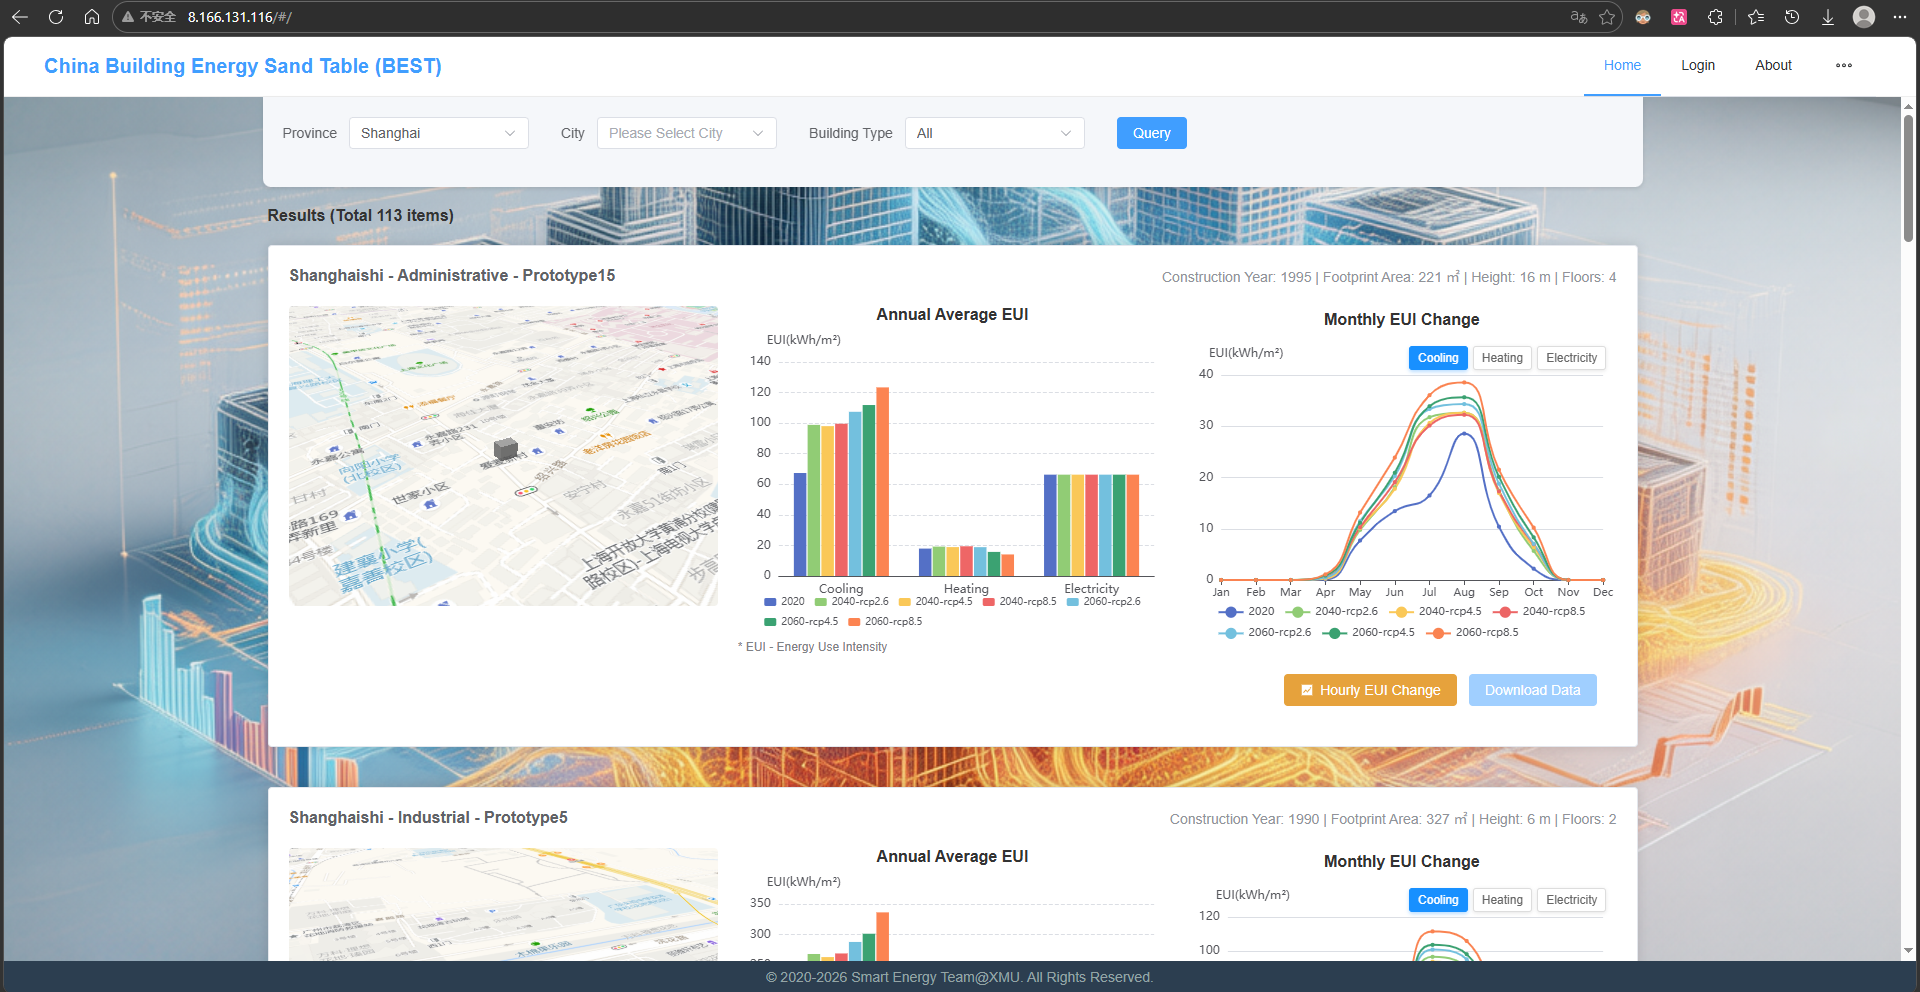
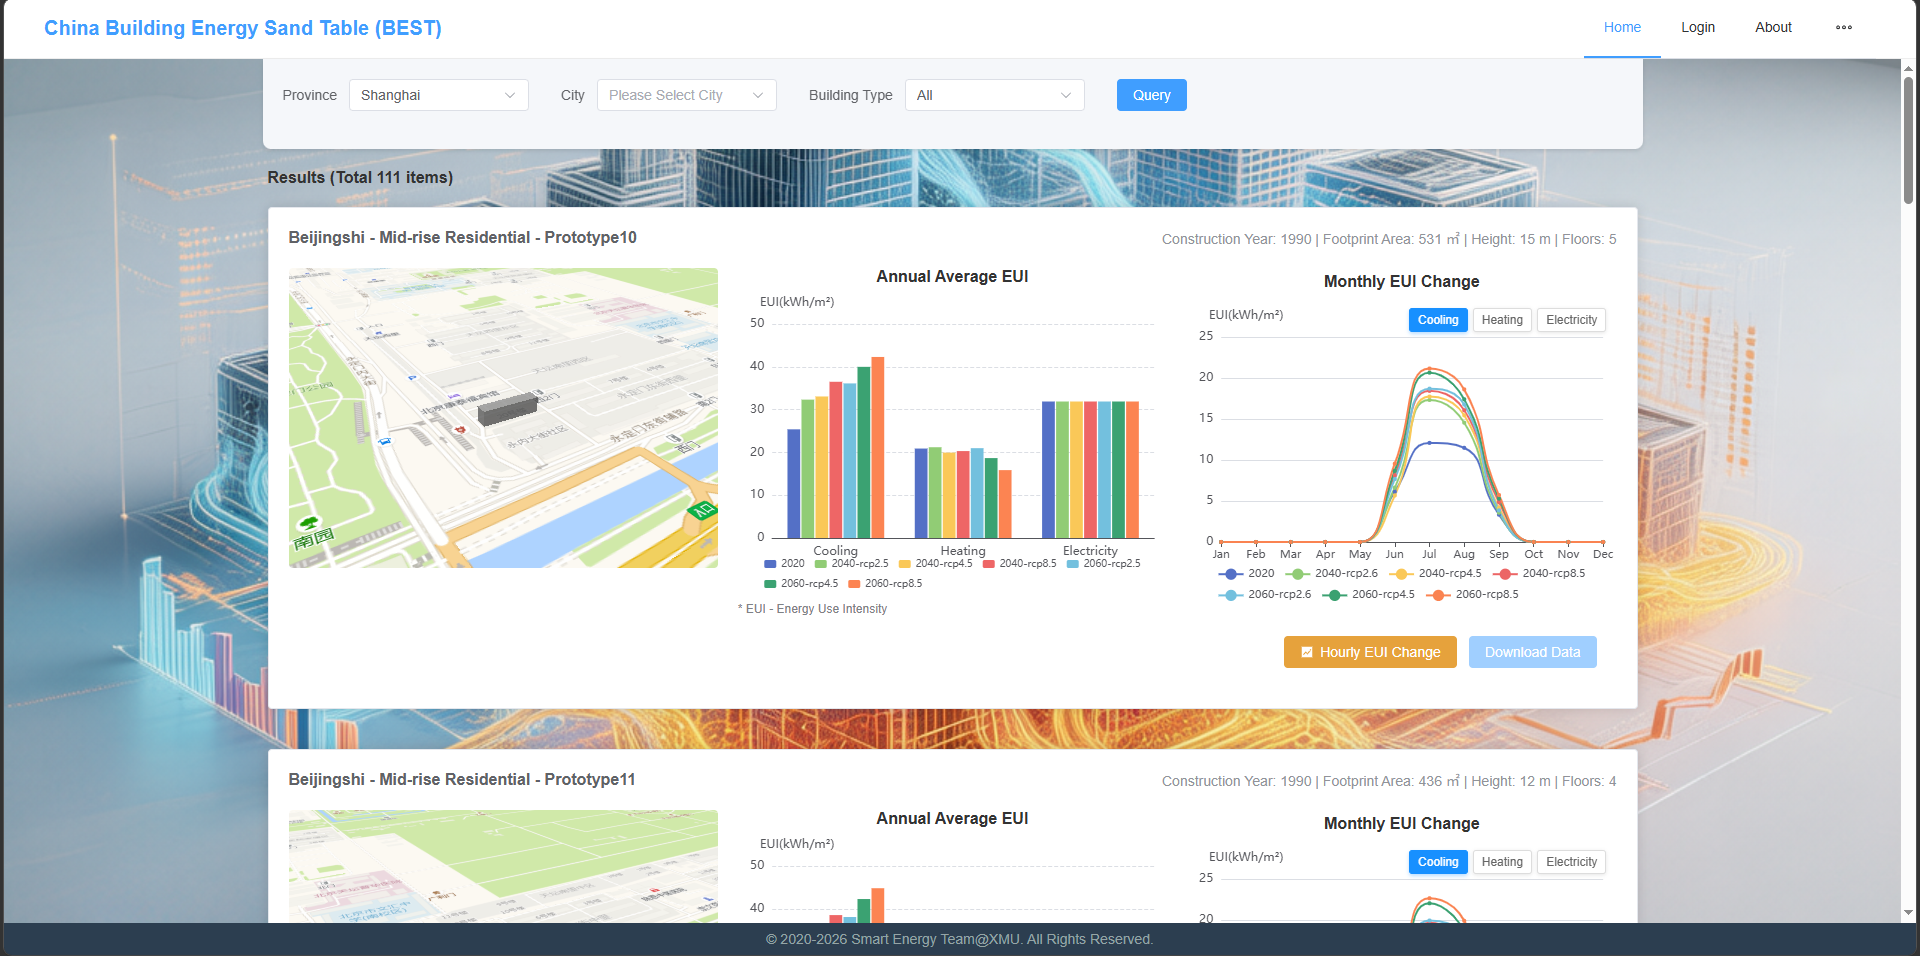
adjust pages

diff --git a/index.html b/index.html
@@ -114,14 +114,14 @@
                 </figure>
 
                 <figure style="float: right; margin-left: 30px; margin-right: 30px; margin-bottom: 25px;">
-                    <div class="img-container" style="max-width: 320px;"> <a href="http://8.166.131.116/"
+                    <div class="img-container" style="max-width: 480px;"> <a href="http://8.166.131.116/"
                             target="_blank" rel="noopener noreferrer">
                             <img src="/assets/img/publication_preview/BEST.png" class="img-fluid z-depth-1 rounded"
                                 style="width: 100%; display: block;" alt="Project Link">
                         </a>
                     </div>
                     <figcaption style="margin-top: 10px; text-align: center; color: #555; font-size: 1.0rem;">
-                        Click image to visit the project </figcaption>
+                        China Building Energy Sand Table (BEST) Web Display</figcaption>
                 </figure>
                 <script>
                     var video = document.getElementById('myVideo');
